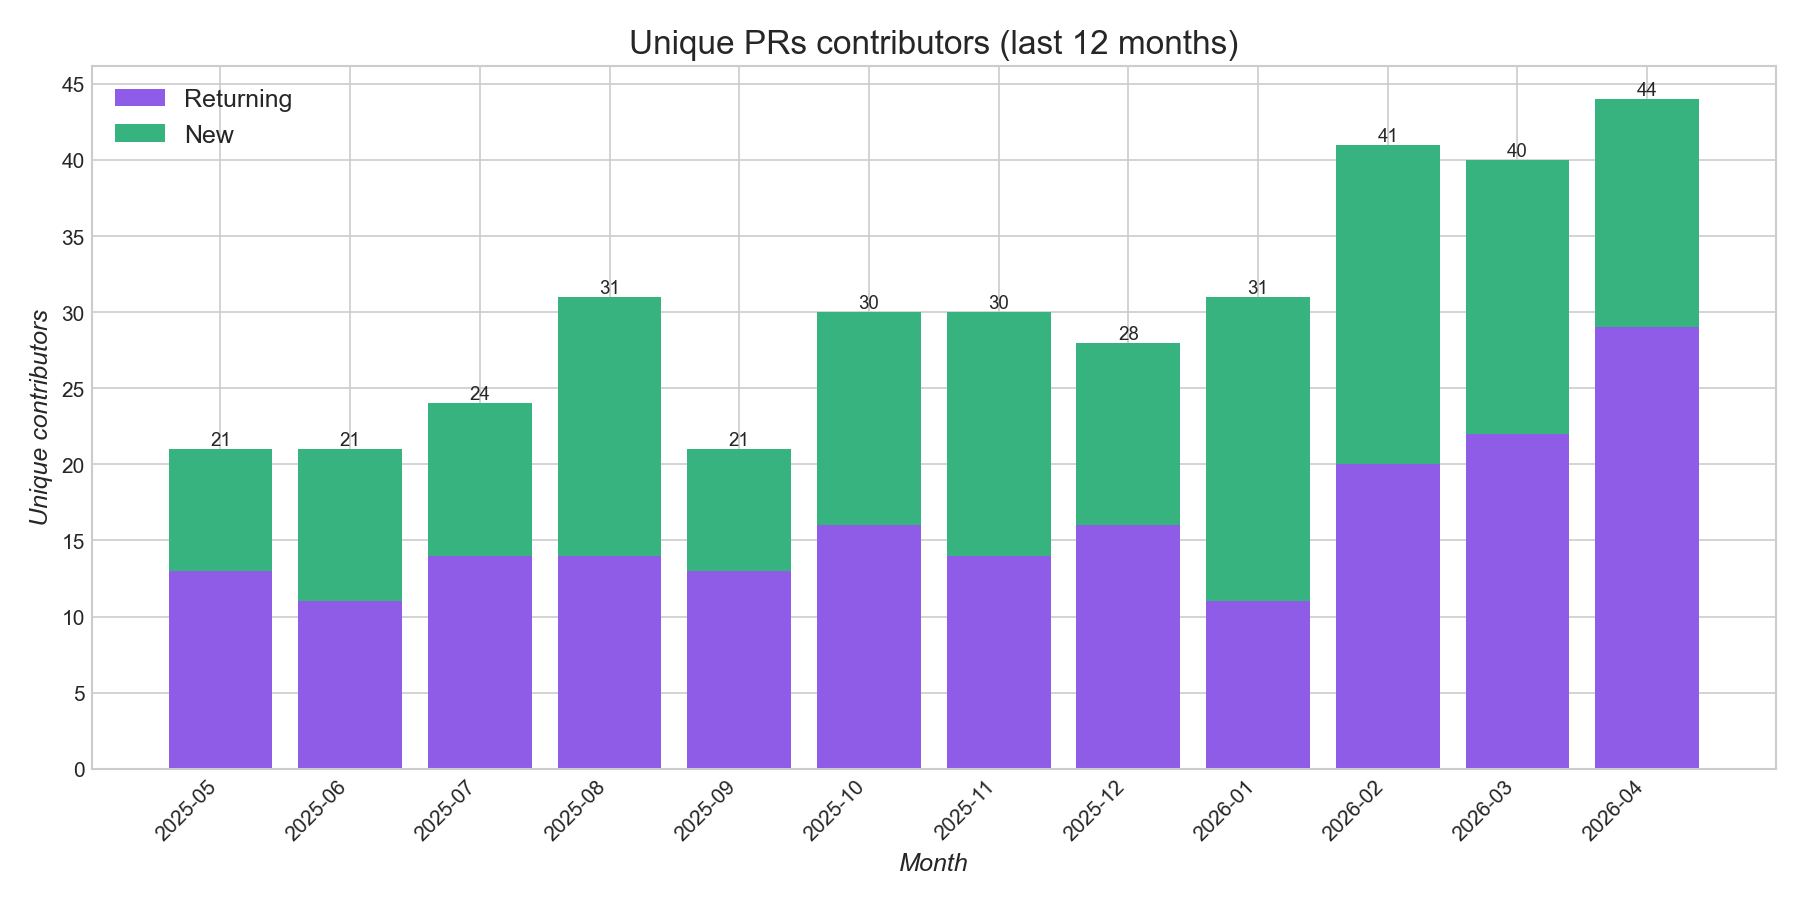
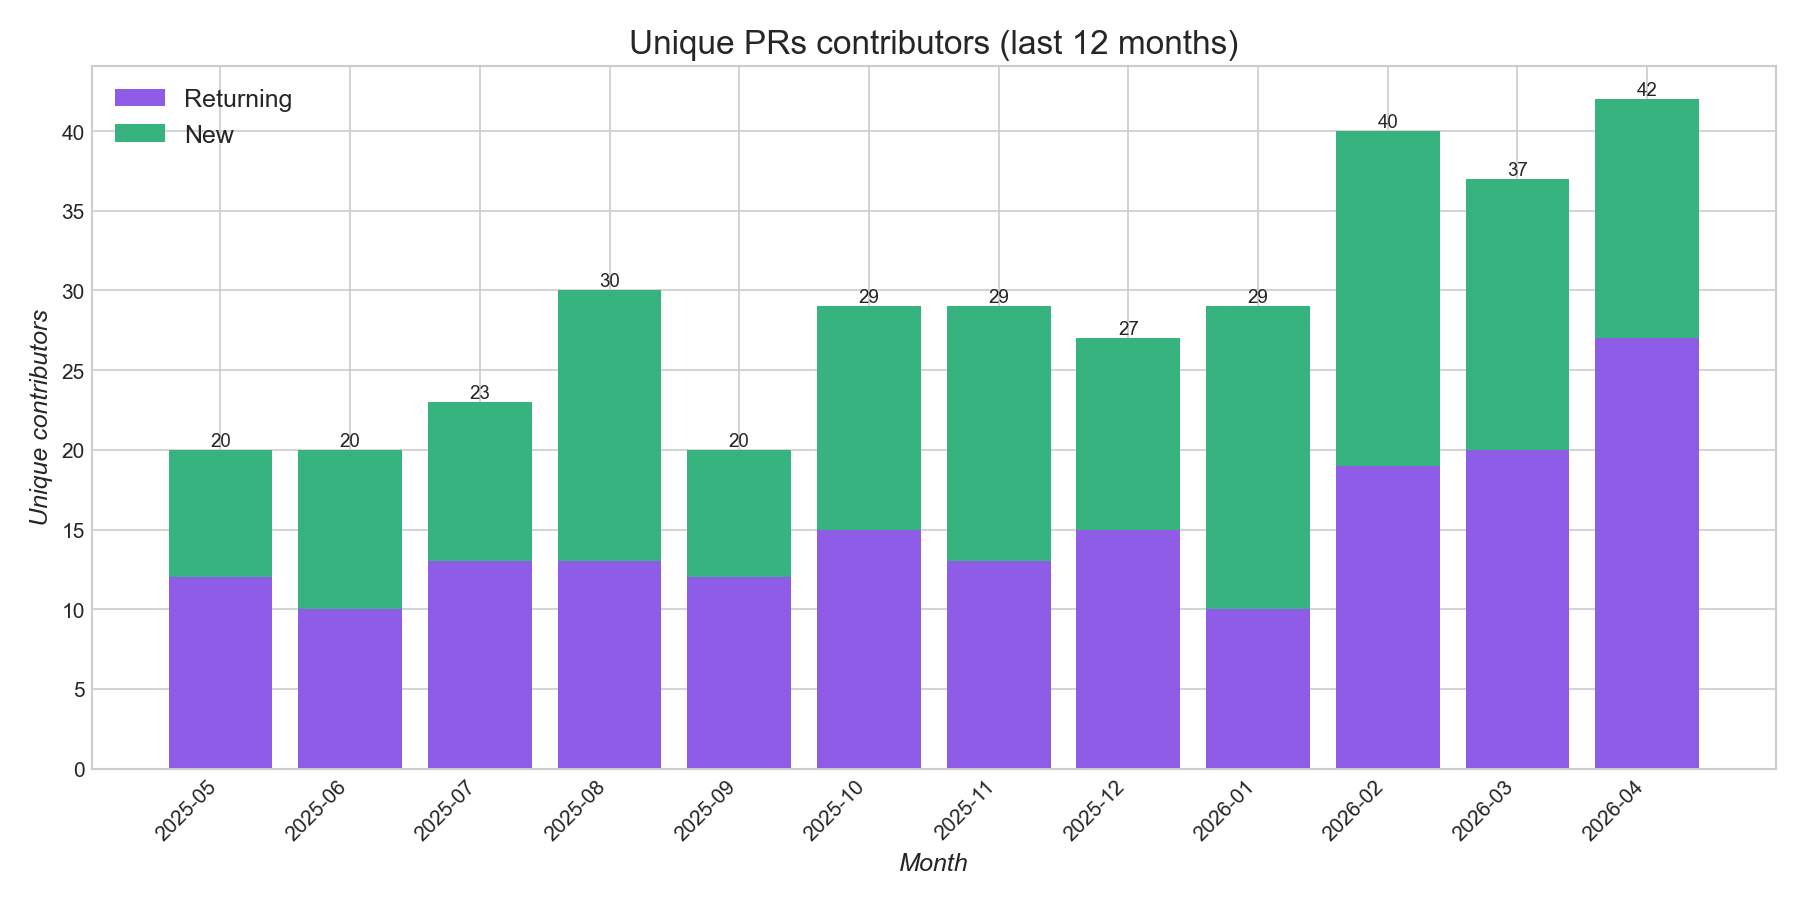
Exclude bots only from unique-contributor counts, not activity charts
Restores bot filtering to plot_contributor_heatmap, plot_unique_contributors,
and _yearly_contributor_rows so unique-contributor numbers reflect human
contributors only. Activity charts (monthly trends, label counts) are
unaffected and include bot activity.

diff --git a/scripts/util/plot.py b/scripts/util/plot.py
@@ -37,6 +37,23 @@ NEW_CONTRIBUTOR = ENHANCEMENT
 # Heatmap colormap for contributor activity chart.
 HEATMAP_CMAP = "YlOrRd"
 
+KNOWN_BOT_LOGINS = {
+    "dependabot",
+    "dependabot-preview",
+    "renovate",
+    "handlerbot",
+    "step-security-bot",
+    "tronboto",
+}
+
+
+def is_bot_login(login: str) -> bool:
+    return (
+        isinstance(login, str)
+        and (login.endswith("[bot]") or login in KNOWN_BOT_LOGINS)
+    )
+
+
 # Custom label color overrides
 COLOR_MAP = {
     "type: bug": BUG,
@@ -610,6 +627,11 @@ def plot_contributor_heatmap(path, table, output_path, top_n=10, window_months=1
             logging.warning(f"[{table}] Contributor CSV is empty: {path}")
             return
 
+        df = df[~df["user_login"].map(is_bot_login)]
+        if df.empty:
+            logging.warning(f"[{table}] No non-bot contributors in {path}")
+            return
+
         months_all = sorted(df["month"].dropna().unique())
         window = months_all[-window_months:]
         df = df[df["month"].isin(window)]
@@ -673,9 +695,10 @@ def plot_unique_contributors(path, table, output_path, window_months=12):
             logging.warning(f"[{table}] Contributor CSV is empty: {path}")
             return
 
+        df = df[~df["user_login"].map(is_bot_login)]
         df = df.dropna(subset=["month", "user_login"])
         if df.empty:
-            logging.warning(f"[{table}] No contributors in {path}")
+            logging.warning(f"[{table}] No non-bot contributors in {path}")
             return
 
         # First-ever month a user appears (across the entire history, not the window)
@@ -739,6 +762,7 @@ def _yearly_contributor_rows(path):
     df = pd.read_csv(path)
     if df.empty:
         return []
+    df = df[~df["user_login"].map(is_bot_login)]
     df = df.dropna(subset=["month", "user_login"])
     if df.empty:
         return []

diff --git a/trends/vector.md b/trends/vector.md
@@ -80,14 +80,14 @@
 | Year | Unique | New | Returning |
 |------|--------|-----|-----------|
 | 2018 | 2 | 2 | 0 |
-| 2019 | 46 | 44 | 2 |
-| 2020 | 89 | 75 | 14 |
-| 2021 | 124 | 94 | 30 |
-| 2022 | 143 | 109 | 34 |
-| 2023 | 154 | 110 | 44 |
-| 2024 | 179 | 131 | 48 |
-| 2025 | 192 | 144 | 48 |
-| 2026 (YTD, 4mo) | 115 | 74 | 41 |
+| 2019 | 45 | 43 | 2 |
+| 2020 | 87 | 74 | 13 |
+| 2021 | 123 | 94 | 29 |
+| 2022 | 142 | 109 | 33 |
+| 2023 | 153 | 110 | 43 |
+| 2024 | 177 | 130 | 47 |
+| 2025 | 191 | 144 | 47 |
+| 2026 (YTD, 4mo) | 112 | 72 | 40 |
 
 <!-- AUTO:yearly-contributors:end -->
 

diff --git a/trends/quickwit.md b/trends/quickwit.md
@@ -55,11 +55,11 @@
 | Year | Unique | New | Returning |
 |------|--------|-----|-----------|
 | 2021 | 12 | 12 | 0 |
-| 2022 | 31 | 25 | 6 |
-| 2023 | 39 | 27 | 12 |
-| 2024 | 37 | 27 | 10 |
-| 2025 | 31 | 22 | 9 |
-| 2026 (YTD, 4mo) | 28 | 13 | 15 |
+| 2022 | 30 | 24 | 6 |
+| 2023 | 38 | 27 | 11 |
+| 2024 | 36 | 27 | 9 |
+| 2025 | 30 | 22 | 8 |
+| 2026 (YTD, 4mo) | 27 | 13 | 14 |
 
 <!-- AUTO:yearly-contributors:end -->
 

diff --git a/trends/vrl.md b/trends/vrl.md
@@ -54,10 +54,10 @@
 
 | Year | Unique | New | Returning |
 |------|--------|-----|-----------|
-| 2023 | 27 | 27 | 0 |
-| 2024 | 31 | 26 | 5 |
-| 2025 | 31 | 24 | 7 |
-| 2026 (YTD, 4mo) | 14 | 9 | 5 |
+| 2023 | 26 | 26 | 0 |
+| 2024 | 30 | 26 | 4 |
+| 2025 | 29 | 23 | 6 |
+| 2026 (YTD, 4mo) | 12 | 9 | 3 |
 
 <!-- AUTO:yearly-contributors:end -->
 
